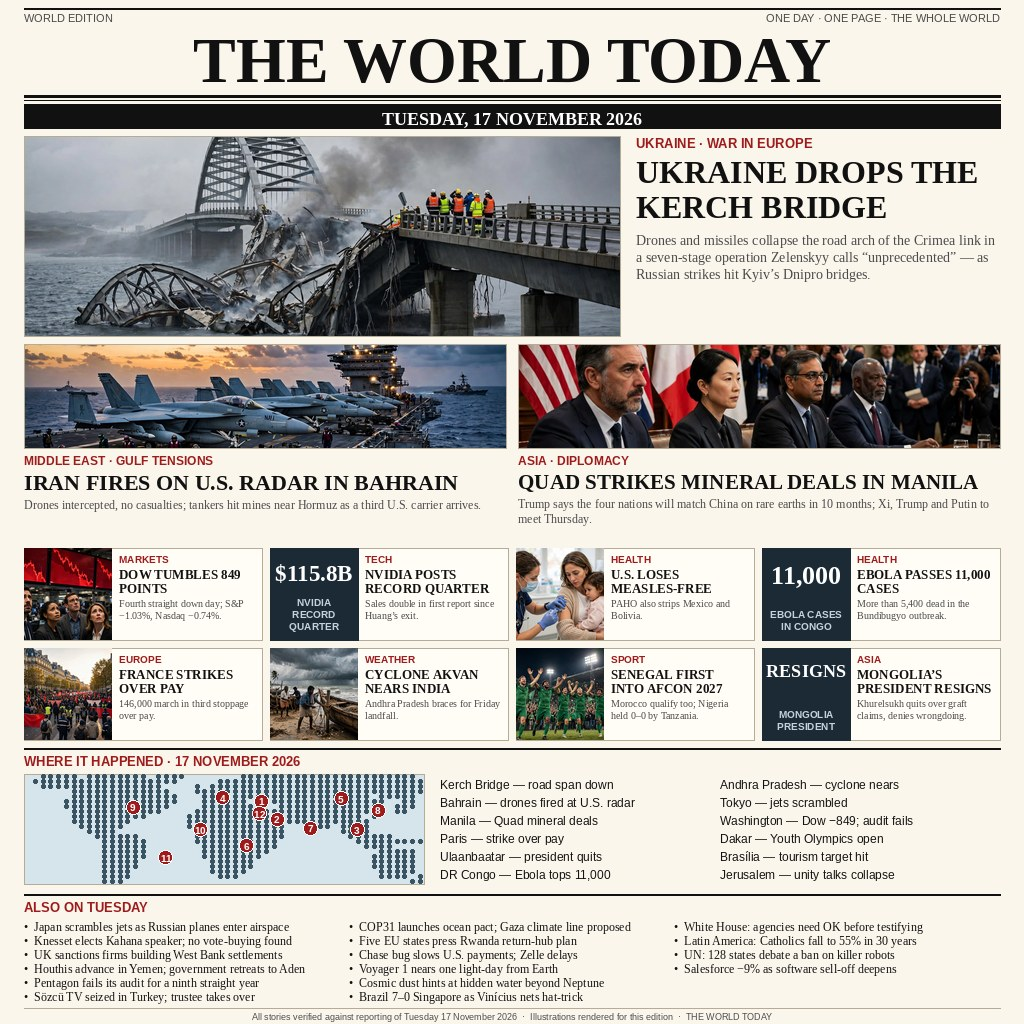
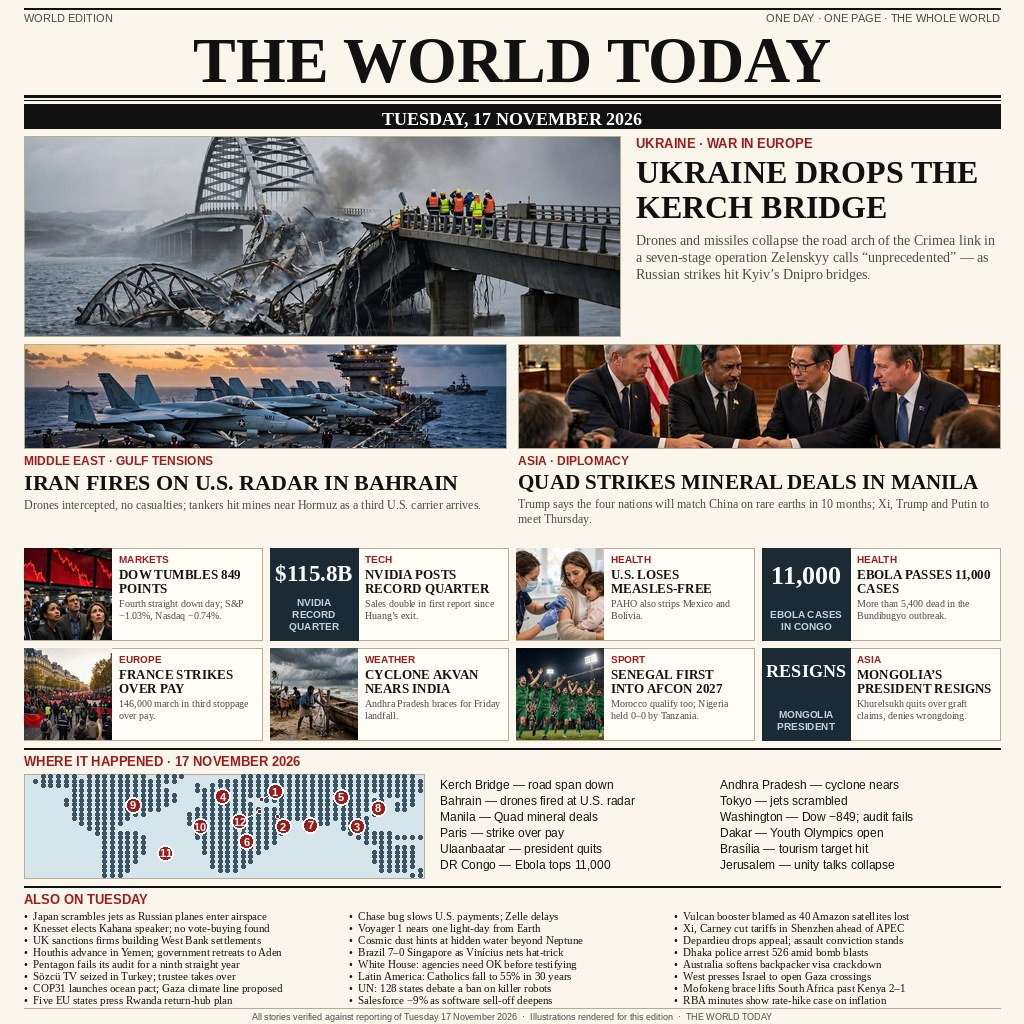
Polish front page: 38 stories, clearer map markers, stronger Quad hero photo
- Also list grows 16 -> 24 items (8 newly verified 17 Nov stories:
  Vulcan booster failure, Xi-Carney tariff deal, Depardieu appeal
  dropped, Dhaka arrests, Australia backpacker visas, Gaza crossings,
  Mofokeng brace, RBA minutes) for 38 stories total
- Map markers enlarged with white rings; Kerch/Bahrain/Jerusalem
  labels nudged apart with leader lines so none overlap
- Quad hero photo regenerated: handshake moment with correct Quad
  flags (US, India, Japan, Australia); old photo showed UK/France flags
- Layout tightened (map 104px, also list 3x8 at 11px) to fit the
  extra stories; all items verified to fit their columns
- entry.png 311,372 bytes; main.py runs byte-identical twice

Changed region(s): [[0.0, 0.75, 0.9688, 1.0], [0.5, 0.3125, 1.0, 0.4375]]

diff --git a/build_page.py b/build_page.py
@@ -144,20 +144,22 @@ MAP_ROWS = [
     [(10, 12), (50, 51)],
 ]
 
-# (number, name, lat, lon, legend text)
+# (number, name, lat, lon, legend text, label dx, label dy)
+# dx/dy nudge a marker's label circle away from its true spot (a leader line
+# joins them) so clustered markers never overlap.
 MARKERS = [
-    (1, "Kerch Bridge", 45.3, 36.5, "Kerch Bridge — road span down"),
-    (2, "Bahrain", 26.0, 50.5, "Bahrain — drones fired at U.S. radar"),
-    (3, "Manila", 14.6, 121.0, "Manila — Quad mineral deals"),
-    (4, "Paris", 48.8, 2.3, "Paris — strike over pay"),
-    (5, "Ulaanbaatar", 47.9, 106.9, "Ulaanbaatar — president quits"),
-    (6, "DR Congo", -2.9, 23.7, "DR Congo — Ebola tops 11,000"),
-    (7, "Andhra Pradesh", 15.9, 80.0, "Andhra Pradesh — cyclone nears"),
-    (8, "Tokyo", 35.7, 139.7, "Tokyo — jets scrambled"),
-    (9, "Washington", 38.9, -77.0, "Washington — Dow −849; audit fails"),
-    (10, "Dakar", 14.7, -17.4, "Dakar — Youth Olympics open"),
-    (11, "Brasilia", -15.8, -47.9, "Brasília — tourism target hit"),
-    (12, "Jerusalem", 31.8, 35.2, "Jerusalem — unity talks collapse"),
+    (1, "Kerch Bridge", 45.3, 36.5, "Kerch Bridge — road span down", 14, -8),
+    (2, "Bahrain", 26.0, 50.5, "Bahrain — drones fired at U.S. radar", 6, 10),
+    (3, "Manila", 14.6, 121.0, "Manila — Quad mineral deals", 0, 0),
+    (4, "Paris", 48.8, 2.3, "Paris — strike over pay", 0, 0),
+    (5, "Ulaanbaatar", 47.9, 106.9, "Ulaanbaatar — president quits", 0, 0),
+    (6, "DR Congo", -2.9, 23.7, "DR Congo — Ebola tops 11,000", 0, 0),
+    (7, "Andhra Pradesh", 15.9, 80.0, "Andhra Pradesh — cyclone nears", 0, 0),
+    (8, "Tokyo", 35.7, 139.7, "Tokyo — jets scrambled", 0, 0),
+    (9, "Washington", 38.9, -77.0, "Washington — Dow −849; audit fails", 0, 0),
+    (10, "Dakar", 14.7, -17.4, "Dakar — Youth Olympics open", 0, 0),
+    (11, "Brasilia", -15.8, -47.9, "Brasília — tourism target hit", 0, 0),
+    (12, "Jerusalem", 31.8, 35.2, "Jerusalem — unity talks collapse", -20, 10),
 ]
 
 
@@ -170,16 +172,22 @@ def draw_map(draw, x0, y0, w, h):
             for c in range(a, b + 1):
                 cx = x0 + (c + 0.5) * cw
                 draw.ellipse([cx - 2, cy - 2, cx + 2, cy + 2], fill=LAND)
-    fnum = font(SANS_B, 10)
-    for num, _name, lat, lon, _leg in MARKERS:
+    fnum = font(SANS_B, 11)
+    for num, _name, lat, lon, _leg, dx, dy in MARKERS:
         col = (lon + 170) / 6.8
         row = (72 - lat) / 5.4
         cx = x0 + (col + 0.5) * cw
         cy = y0 + (row + 0.5) * ch
-        draw.ellipse([cx - 7, cy - 7, cx + 7, cy + 7], fill=RED, outline=(255, 255, 255), width=1)
+        lx, ly = cx + dx, cy + dy
+        if dx or dy:  # leader line from the true spot to the nudged label
+            draw.line([(cx, cy), (lx, ly)], fill=(255, 255, 255), width=1)
+            draw.ellipse([cx - 2, cy - 2, cx + 2, cy + 2], fill=RED,
+                         outline=(255, 255, 255), width=1)
+        draw.ellipse([lx - 8, ly - 8, lx + 8, ly + 8], fill=RED,
+                     outline=(255, 255, 255), width=2)
         t = str(num)
         tw = draw.textlength(t, font=fnum)
-        draw.text((cx - tw / 2, cy - 6), t, font=fnum, fill=(255, 255, 255))
+        draw.text((lx - tw / 2, ly - 6), t, font=fnum, fill=(255, 255, 255))
 
 
 def draw_panel_number(draw, x, y, w, h, big, small):
@@ -250,7 +258,7 @@ def main():
          "IRAN FIRES ON U.S. RADAR IN BAHRAIN",
          "Drones intercepted, no casualties; tankers hit mines near Hormuz as a "
          "third U.S. carrier arrives."),
-        ("hero-summit", "ASIA · DIPLOMACY",
+        ("hero-summit2", "ASIA · DIPLOMACY",
          "QUAD STRIKES MINERAL DEALS IN MANILA",
          "Trump says the four nations will match China on rare earths in 10 months; "
          "Xi, Trump and Putin to meet Thursday."),
@@ -319,21 +327,21 @@ def main():
     my = 748
     d.line([(MARGIN, my), (W - MARGIN, my)], fill=INK, width=2)
     draw_kicker(d, MARGIN, my + 6, "WHERE IT HAPPENED · 17 NOVEMBER 2026", 13)
-    map_x, map_y, map_w, map_h = MARGIN, my + 26, 400, 110
+    map_x, map_y, map_w, map_h = MARGIN, my + 26, 400, 104
     draw_map(d, map_x, map_y, map_w, map_h)
     lx = map_x + map_w + 16
     lw = W - MARGIN - lx
     f_leg = font(SANS, 12)
     half = 6
-    for i, (_n, _nm, _la, _lo, leg) in enumerate(MARKERS):
+    for i, (_n, _nm, _la, _lo, leg, _dx, _dy) in enumerate(MARKERS):
         col = 0 if i < half else 1
         row = i % half
         x = lx + col * (lw // 2)
-        y = map_y + 4 + row * 18
+        y = map_y + 4 + row * 16
         d.text((x, y), leg, font=f_leg, fill=INK)
 
     # ---------- also list ----------
-    ay = 894
+    ay = 886
     d.line([(MARGIN, ay), (W - MARGIN, ay)], fill=INK, width=2)
     draw_kicker(d, MARGIN, ay + 6, "ALSO ON TUESDAY", 13)
     also = [
@@ -353,15 +361,23 @@ def main():
         "Latin America: Catholics fall to 55% in 30 years",
         "UN: 128 states debate a ban on killer robots",
         "Salesforce −9% as software sell-off deepens",
+        "Vulcan booster blamed as 40 Amazon satellites lost",
+        "Xi, Carney cut tariffs in Shenzhen ahead of APEC",
+        "Depardieu drops appeal; assault conviction stands",
+        "Dhaka police arrest 526 amid bomb blasts",
+        "Australia softens backpacker visa crackdown",
+        "West presses Israel to open Gaza crossings",
+        "Mofokeng brace lifts South Africa past Kenya 2–1",
+        "RBA minutes show rate-hike case on inflation",
     ]
-    f_also = font(SERIF, 12)
-    per_col = 6
+    f_also = font(SERIF, 11)
+    per_col = 8
     colw = CW // 3
     for i, item in enumerate(also):
         col = i // per_col
         row = i % per_col
         x = MARGIN + col * colw
-        y = ay + 26 + row * 14
+        y = ay + 24 + row * 12
         d.text((x, y), "•  " + item, font=f_also, fill=INK)
 
     # ---------- footer ----------

diff --git a/README.md b/README.md
@@ -5,7 +5,7 @@
 [![reward](https://make.fun/badge/news-image-20261117/jonsonbmth/news-image-20261117/reward.svg)](https://make.fun/bounty/news-image-20261117?utm_source=github&utm_medium=readme&utm_campaign=news-image-20261117)
 
 One image summing up world news of Tuesday, 17 November 2026: an original
-newspaper front page — "THE WORLD TODAY" — with 30 verified stories across
+newspaper front page — "THE WORLD TODAY" — with 38 verified stories across
 six continents. Ukraine drops the Kerch Bridge; Iran fires on a U.S. radar
 in Bahrain; the Quad strikes critical-minerals deals in Manila; plus the
 Dow's 849-point drop, Nvidia's record quarter, measles-free status lost,
